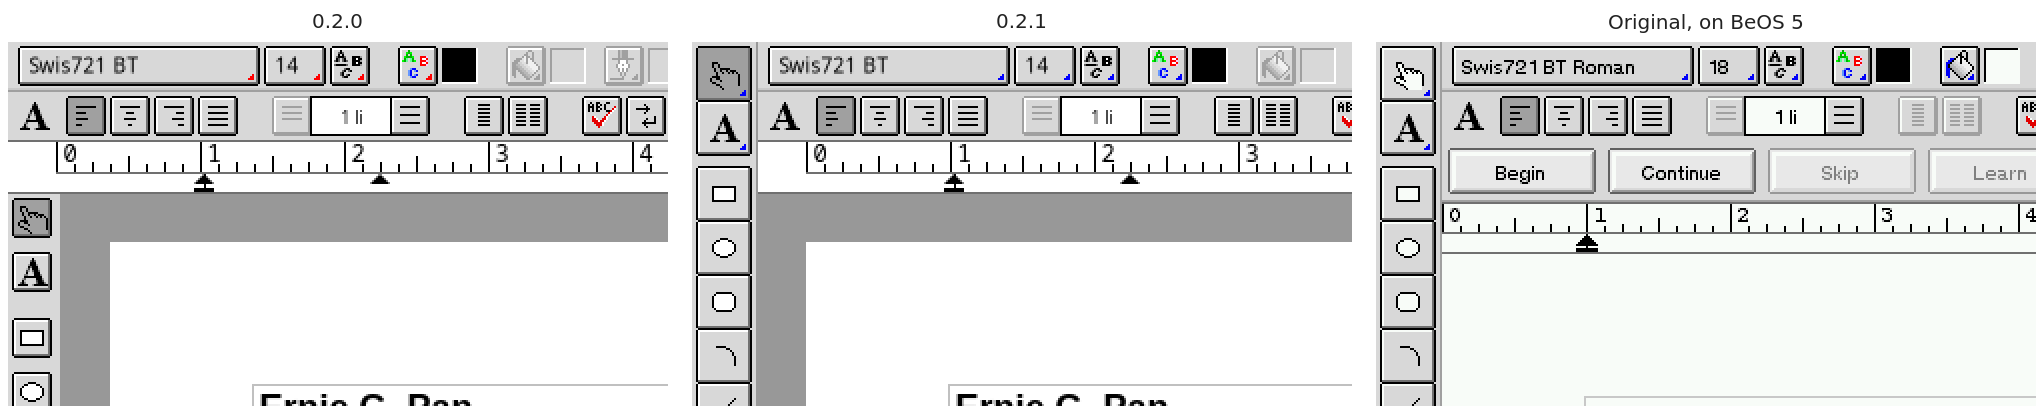
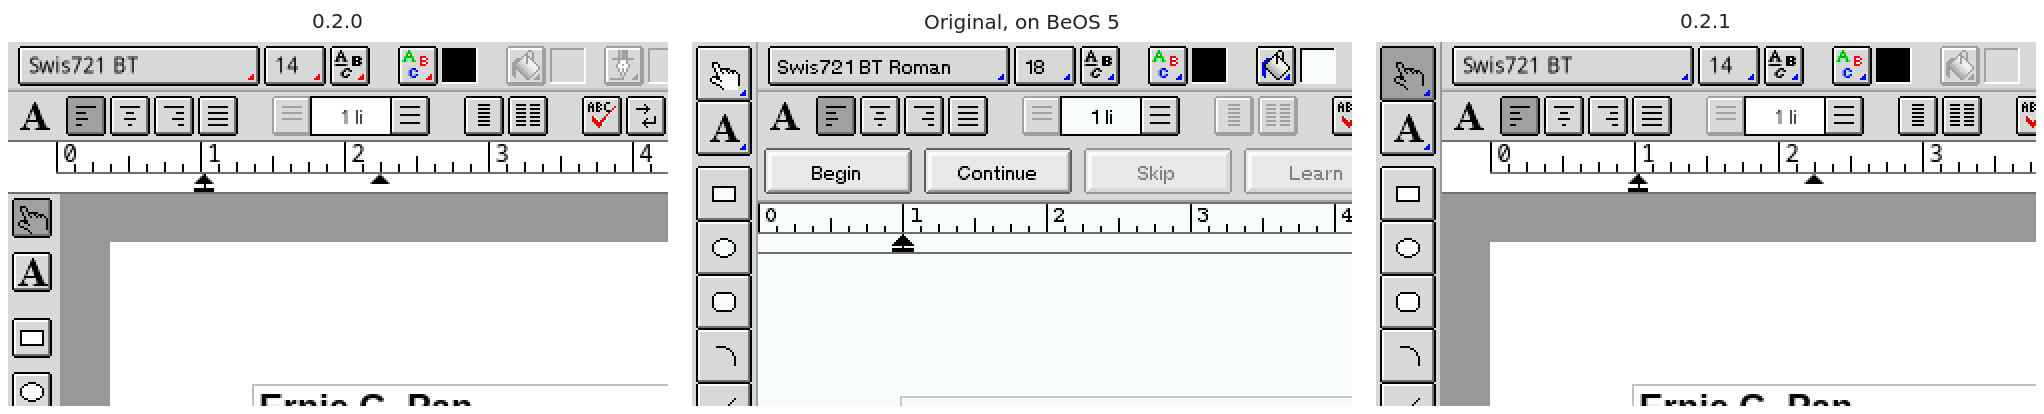
README: the comparison as 0.2.0, the original, 0.2.1
The original in the middle, and 0.2.1 shot from the released AppImage.

Claude-Session: https://claude.ai/code/session_01PoWUVMia4qenFt7PZCygaM

diff --git a/README.md b/README.md
@@ -63,14 +63,14 @@ with gaps, under the other bars. 0.2.1 draws it as the original does: 28-pixel b
 beside every bar, with the pop-up triangle on the arrow, part and shapes
 tools (whose icon is its shape, the star). The pop-up triangles are blue,
 as in the original, not red, and the zoom box's "100%" fits in its box.
-Here is the Resume sample in 0.2.0, 0.2.1 and the original, with the
+Here is the Resume sample in 0.2.0, the original and 0.2.1, with the
 ToolBar shown:
 
-![The Resume sample in 0.2.0 (left), 0.2.1 (middle) and the original on BeOS 5 (right)](docs/screenshots/compare-resume.png)
+![The Resume sample in 0.2.0 (left), the original on BeOS 5 (middle) and 0.2.1 (right)](docs/screenshots/compare-resume.png)
 
 The bars close up, at twice the size:
 
-![The ToolBar, FormatBar and PartBar in 0.2.0, 0.2.1 and the original, at twice the size](docs/screenshots/compare-bars.png)
+![The ToolBar, FormatBar and PartBar in 0.2.0, the original and 0.2.1, at twice the size](docs/screenshots/compare-bars.png)
 
 *Still different: the original saves which bars a document shows (the
 Resume opens with the spelling bar on BeOS), which the port doesn't read
